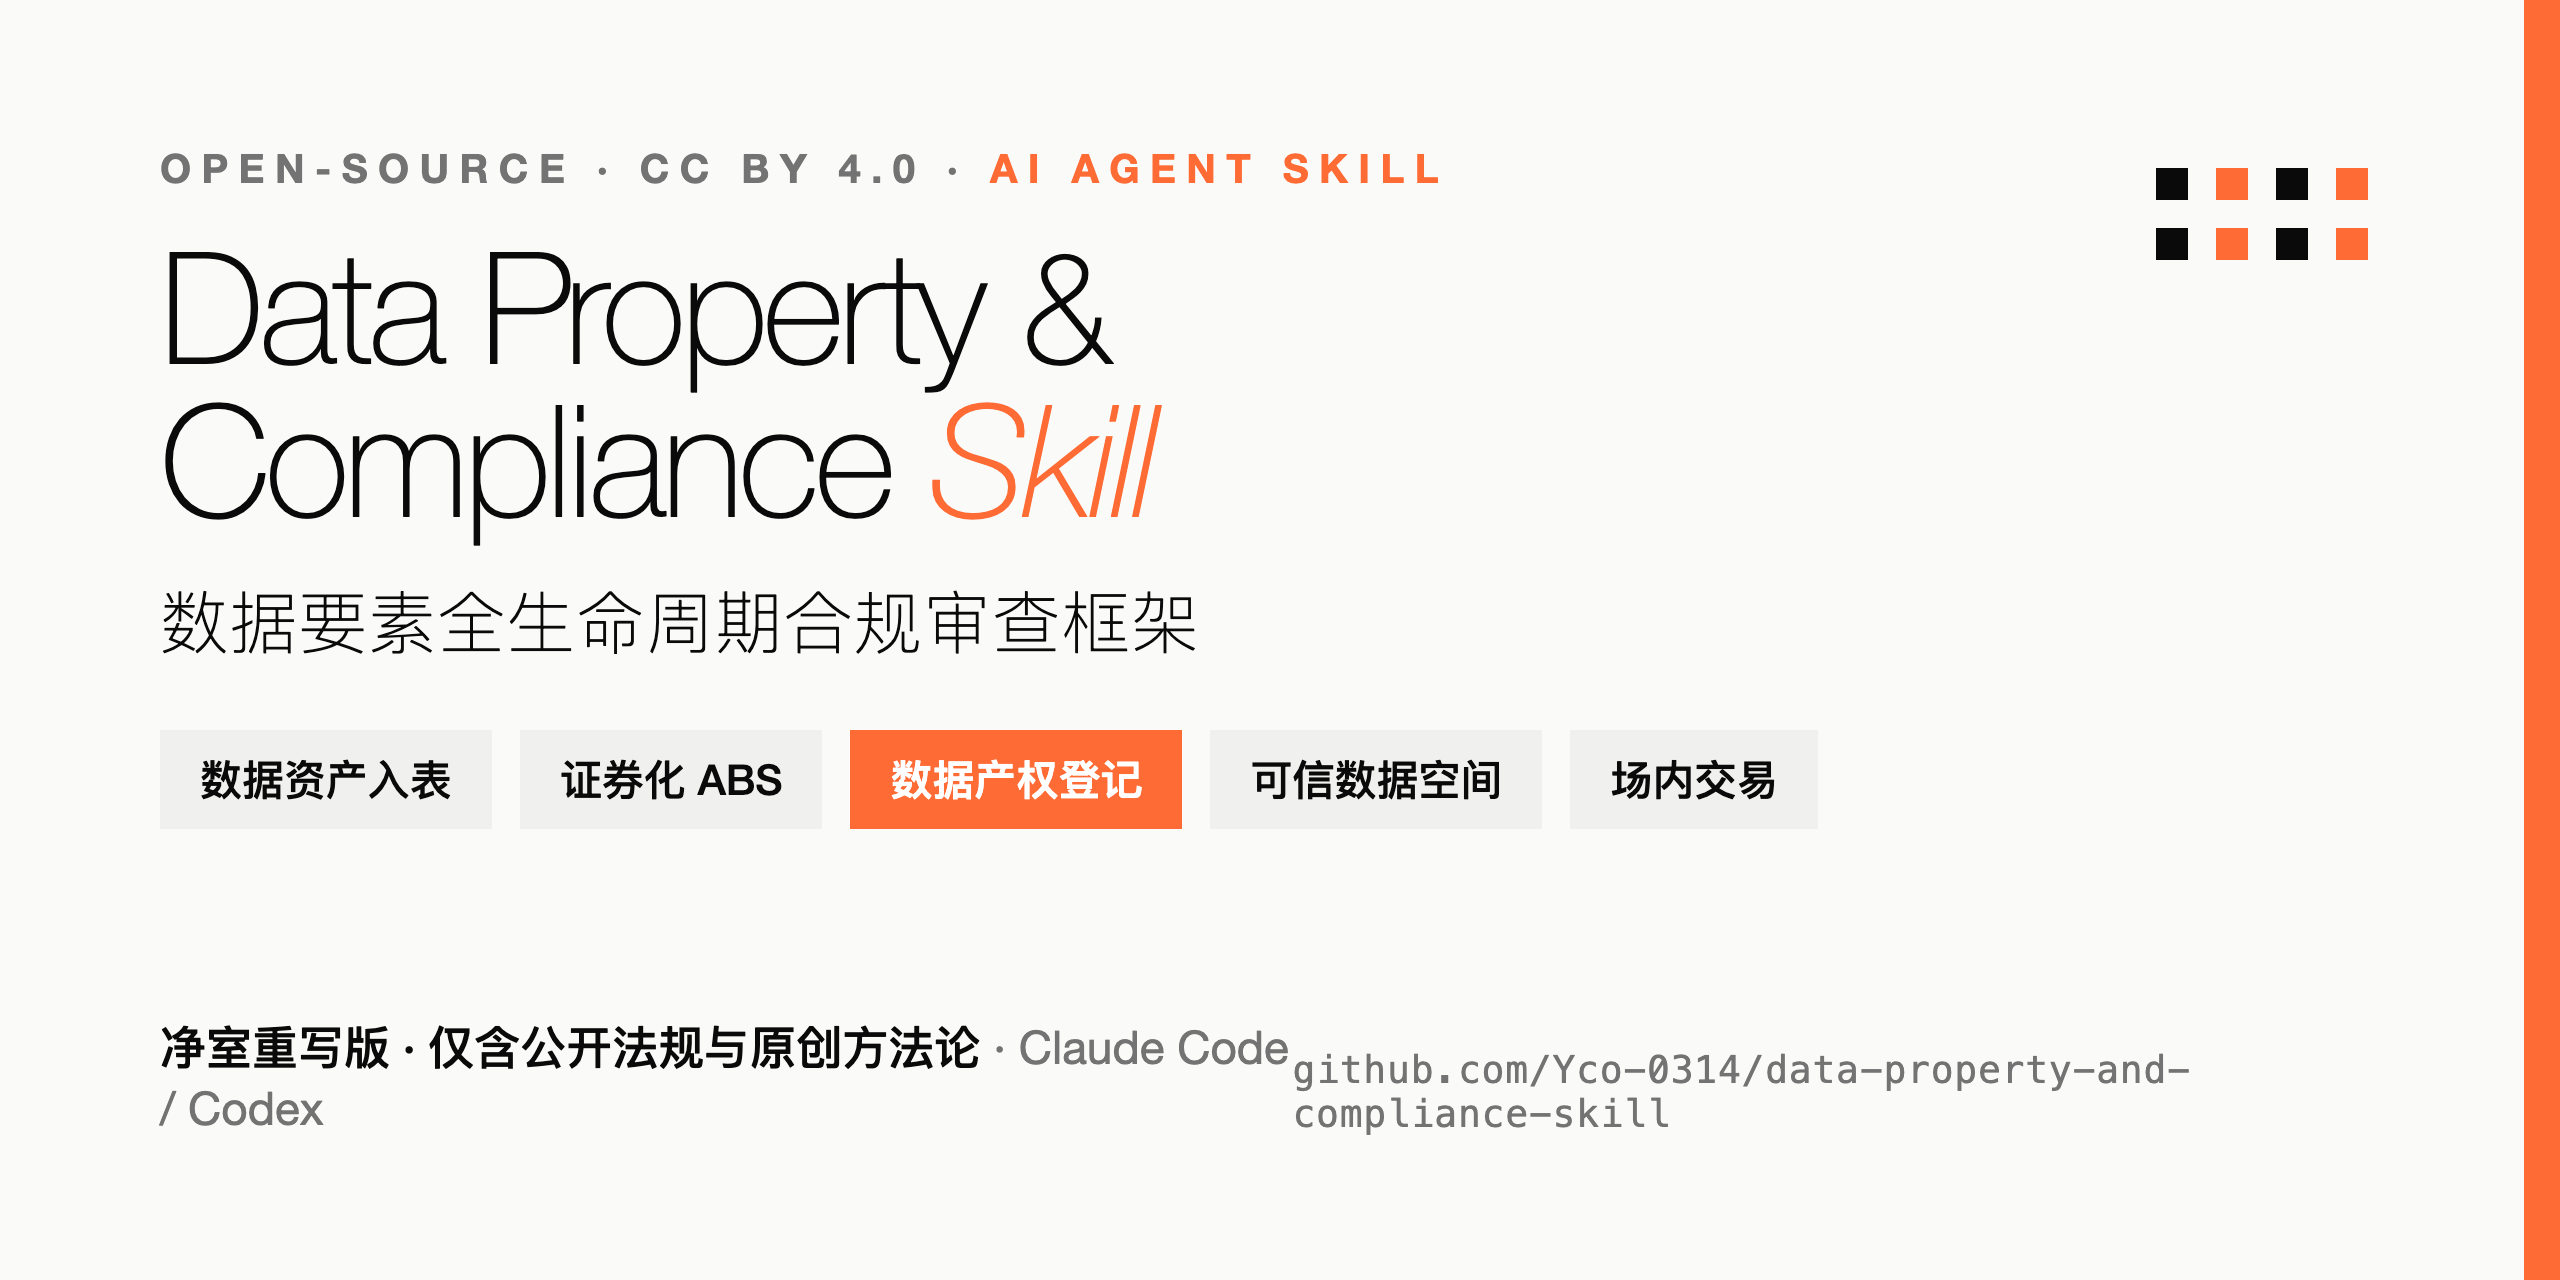
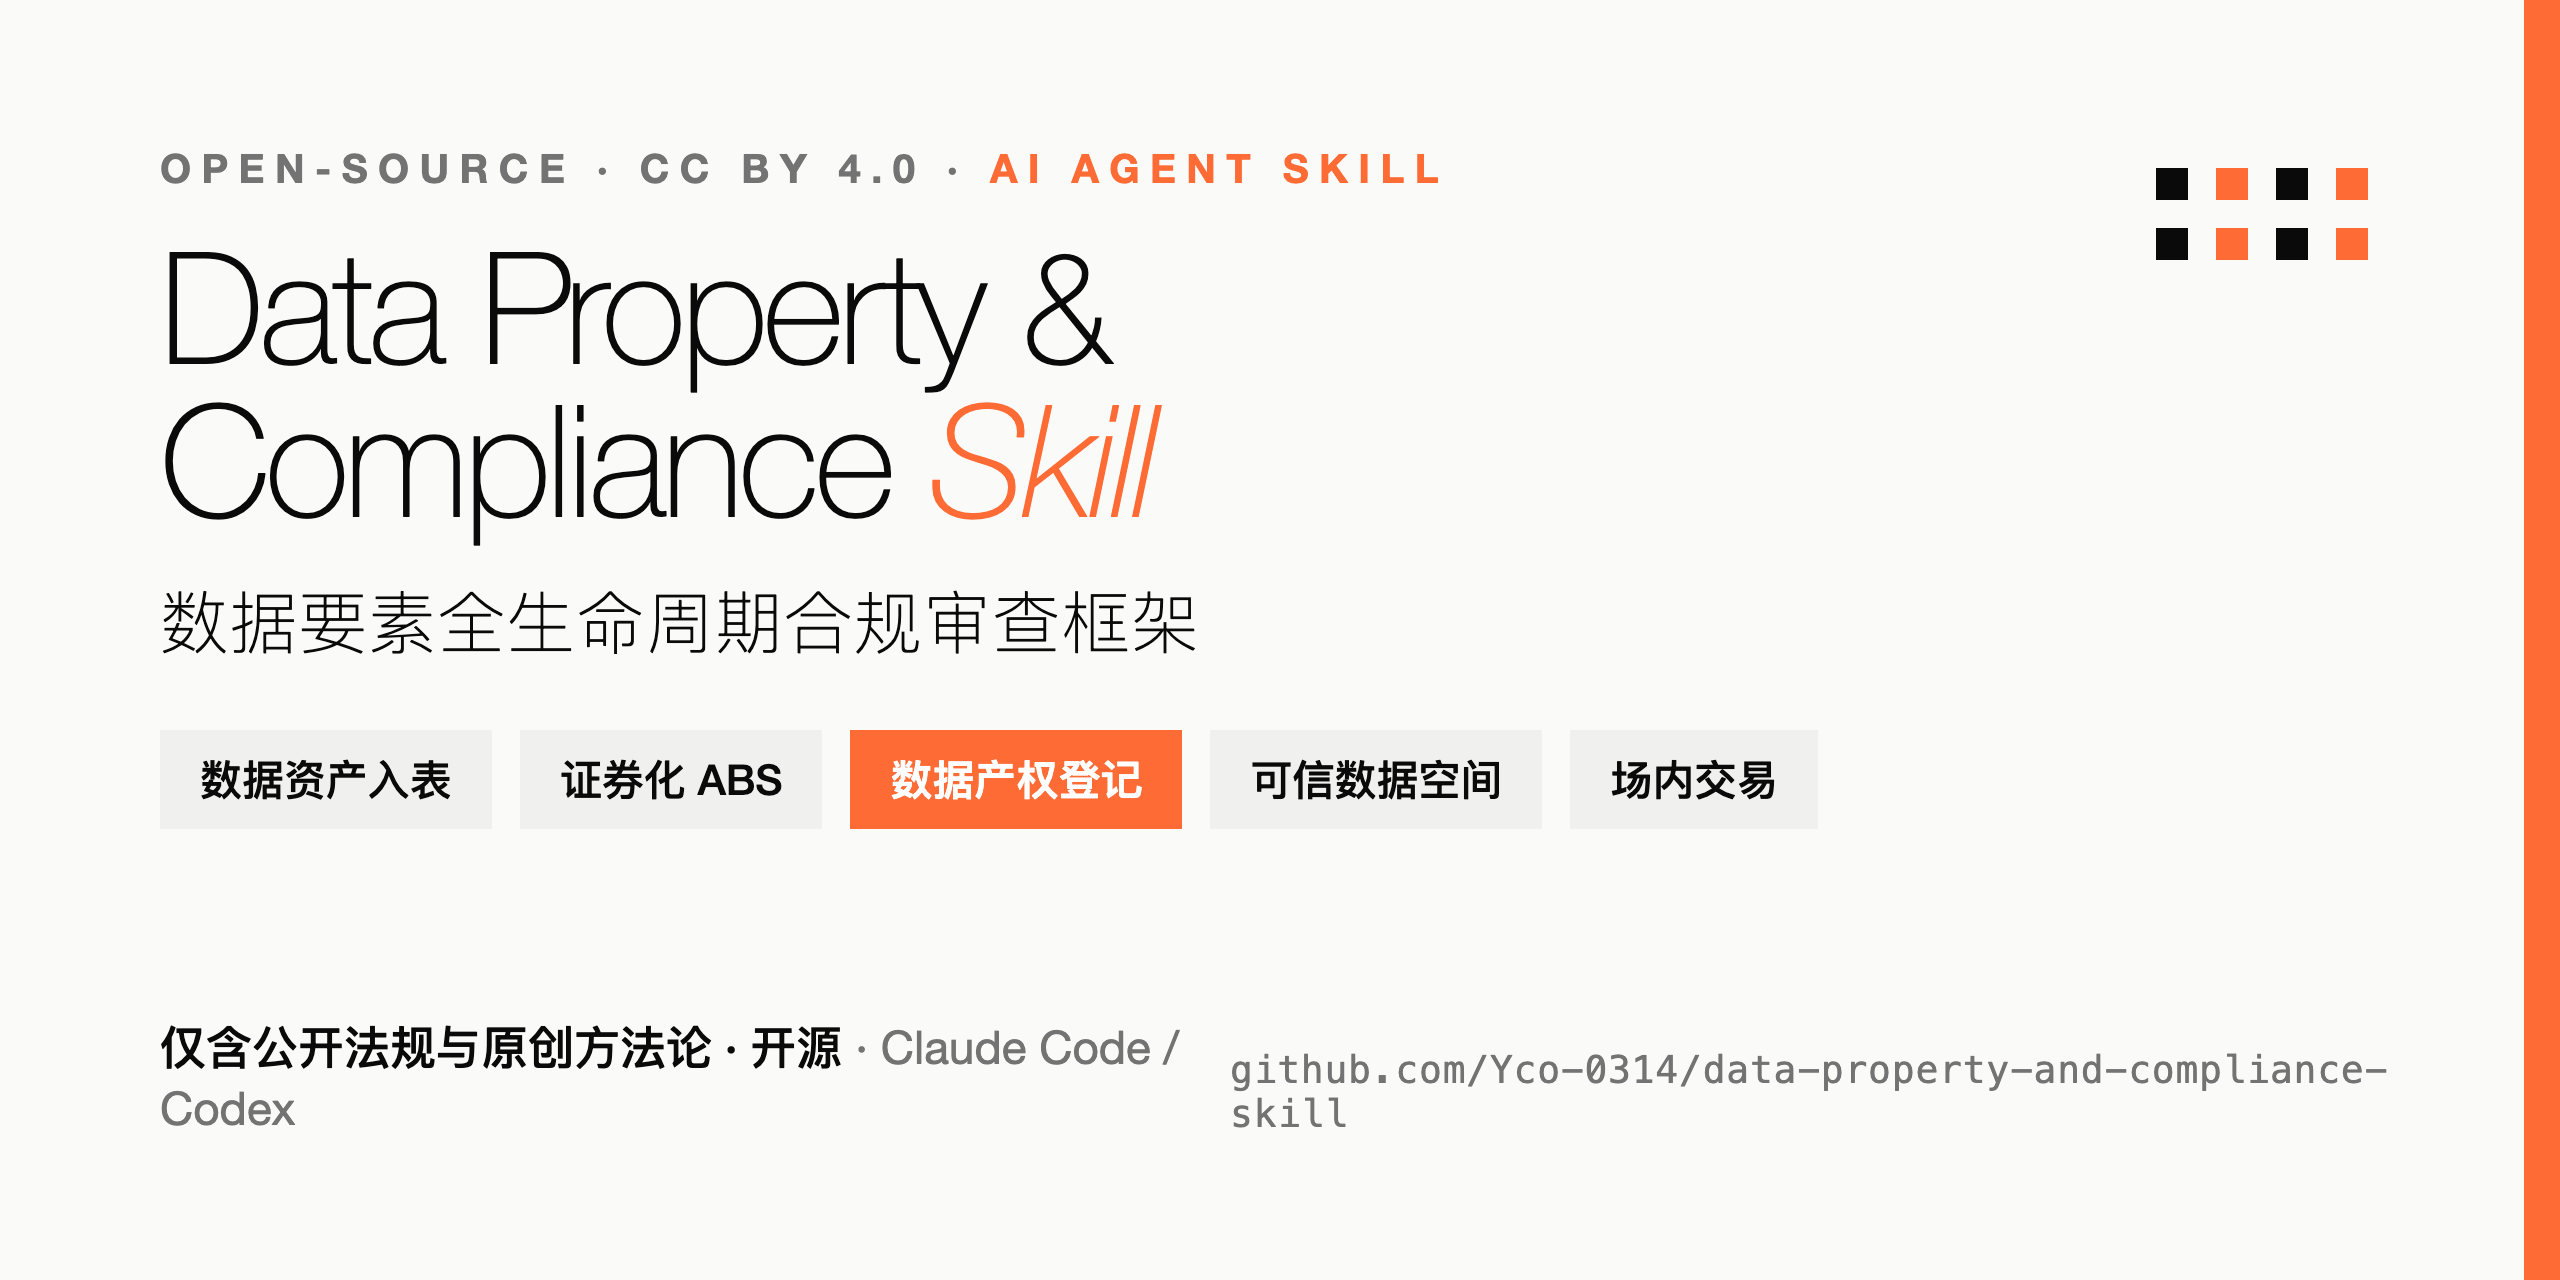
docs: drop the "净室重写版 / clean-room rewrite" label
State what the version IS (public sources + original methodology, no
non-public internal substance) instead of how it was produced. Updated
README(.en), SKILL(.en), guard wording, and the social-preview card.

Changed region(s): [[0.0625, 0.7812, 0.9375, 0.9062]]

diff --git a/tools/compliance_guard.py b/tools/compliance_guard.py
@@ -17,7 +17,7 @@ import re
 import sys
 from pathlib import Path
 
-# (label, regex). Each pattern is something the clean-room rewrite removed and
+# (label, regex). Each pattern is something the cleanup removed and
 # that should not creep back in. Keep these specific to avoid false positives on
 # legitimate meta-mentions (e.g. the "we deliberately do NOT reproduce …" note).
 PATTERNS = [
@@ -48,10 +48,10 @@ for path in md_files:
             hits.append((str(rel), line, label, m.group(0)))
 
 if hits:
-    print("❌ compliance-guard: forbidden patterns found (clean-room regression):")
+    print("❌ compliance-guard: forbidden patterns found (regression):")
     for rel, line, label, frag in hits:
         print(f"   {rel}:{line}  [{label}]  -> {frag!r}")
-    print("\nThese were removed during the clean-room rewrite and must not return.")
+    print("\nThese were removed during cleanup and must not return.")
     print("If a hit is a legitimate corrective/meta mention, tighten the pattern in tools/compliance_guard.py.")
     sys.exit(1)
 

diff --git a/README.en.md b/README.en.md
@@ -9,7 +9,7 @@
 [![Version](https://img.shields.io/badge/version-v1.0.0-1f6feb.svg)](https://github.com/Yco-0314/data-property-and-compliance-skill/releases)
 [![Scope](https://img.shields.io/badge/scope-reference%20only%20%C2%B7%20not%20legal%20advice-red.svg)](#disclaimer-read-first)
 
-> ℹ️ This is a **clean-room rewrite**: it contains only ① publicly verifiable sources and ② the author's original methodology — no substance from any confidential internal material — and has passed two rounds of adversarial compliance audit (0 blockers).
+> ℹ️ This version contains only ① publicly verifiable sources and ② the author's original methodology — no substance from any confidential internal material — and has passed two rounds of adversarial compliance audit (0 blockers).
 
 > A systematic self-check / training framework covering the **full data-element lifecycle**: from accounting capitalization to securitization, from data-property registration to trusted circulation, from exchange trading to ecosystem partnerships.
 > Shipped as an AI-agent **Skill** ([`SKILL.md`](./SKILL.md)); also usable as a manual review checklist.
@@ -91,7 +91,7 @@ Walk the `- [ ]` checklist items in `SKILL.md` against the filing / trading mate
 
 ## About this open-source version
 
-This repo is a **clean-room rewrite**. Its content is of two kinds only — ① **publicly verifiable sources** (published laws, administrative regulations, departmental rules, national standards, national-level plans/measures, and exchanges' **officially published** trading rules / national model contracts), and ② the **author's original methodology** (review dimensions, contradiction detection, timeline audit, risk matrix, etc.).
+This repo's content is of two kinds only — ① **publicly verifiable sources** (published laws, administrative regulations, departmental rules, national standards, national-level plans/measures, and exchanges' **officially published** trading rules / national model contracts), and ② the **author's original methodology** (review dimensions, contradiction detection, timeline audit, risk matrix, etc.).
 
 To make it safe to publish, the following were done:
 - ✂️ **No internal-material substance**: does not copy or paraphrase any article numbers, criteria or lists that exist only in non-public internal material; any "judgment/limit" that cannot point to a public source was rewritten as analysis based on public law, or annotated "per the locally published rules in force."

diff --git a/README.md b/README.md
@@ -9,7 +9,7 @@
 [![Version](https://img.shields.io/badge/version-v1.0.0-1f6feb.svg)](https://github.com/Yco-0314/data-property-and-compliance-skill/releases)
 [![Scope](https://img.shields.io/badge/scope-reference%20only%20%C2%B7%20not%20legal%20advice-red.svg)](#免责声明请先阅读)
 
-> ℹ️ 本版本为**净室重写版**：内容仅含 ①可公开核验来源 ②作者原创方法论，已剥离任何非公开内部资料的实质内容，并经两轮对抗式合规审计（0 blocker）。
+> ℹ️ 本版本内容仅含 ①可公开核验来源 ②作者原创方法论，已剥离任何非公开内部资料的实质内容，并经两轮对抗式合规审计（0 blocker）。
 
 > 一套覆盖**数据要素全生命周期**的系统化合规自查 / 培训框架：从会计入表到金融证券化，从数据产权登记到可信流通，从场内交易到生态合作。
 > 以 AI Agent **Skill** 形式提供（[`SKILL.md`](./SKILL.md)），也可直接当作人工审查 checklist 使用。
@@ -89,7 +89,7 @@ flowchart TB
 
 ## 关于本开源版本（透明说明）
 
-本仓库为**净室重写版**：内容只有两类——①**可公开核验的来源**（已公布的法律、行政法规、规章、国家标准、国家级规划/办法，及交易所**官网公开发布**的交易规则、国家数据局示范文本），②**作者原创的通用方法论**（审查维度、矛盾识别、时间线审计、风险矩阵等）。
+本仓库内容只有两类——①**可公开核验的来源**（已公布的法律、行政法规、规章、国家标准、国家级规划/办法，及交易所**官网公开发布**的交易规则、国家数据局示范文本），②**作者原创的通用方法论**（审查维度、矛盾识别、时间线审计、风险矩阵等）。
 
 为可安全公开，已做：
 - ✂️ **不含内部资料实质**：不复制、不转述任何只存在于非公开内部资料中的具体条号、判定口径或清单；凡无法指向公开来源的"判定/限制"，一律改为依据公开法律自行分析，或注明"以各地正式公布的规则为准"。

diff --git a/SKILL.en.md b/SKILL.en.md
@@ -4,7 +4,7 @@
 >
 > ⚠️ **Disclaimer**: Reference / educational framework only. **Not legal advice.** Article numbers and rules may have changed — rely on the current in-force text and consult a qualified professional.
 >
-> 🗂 **About this version**: clean-room rewrite — only ① publicly verifiable sources and ② original methodology; no substance from any confidential internal material; examples are redacted / illustrative.
+> 🗂 **About this version**: contains only ① publicly verifiable sources and ② original methodology; no substance from any confidential internal material; examples are redacted / illustrative.
 >
 > 🔖 Version v1.0 · last revised 2026-06-26 · License: CC BY 4.0
 